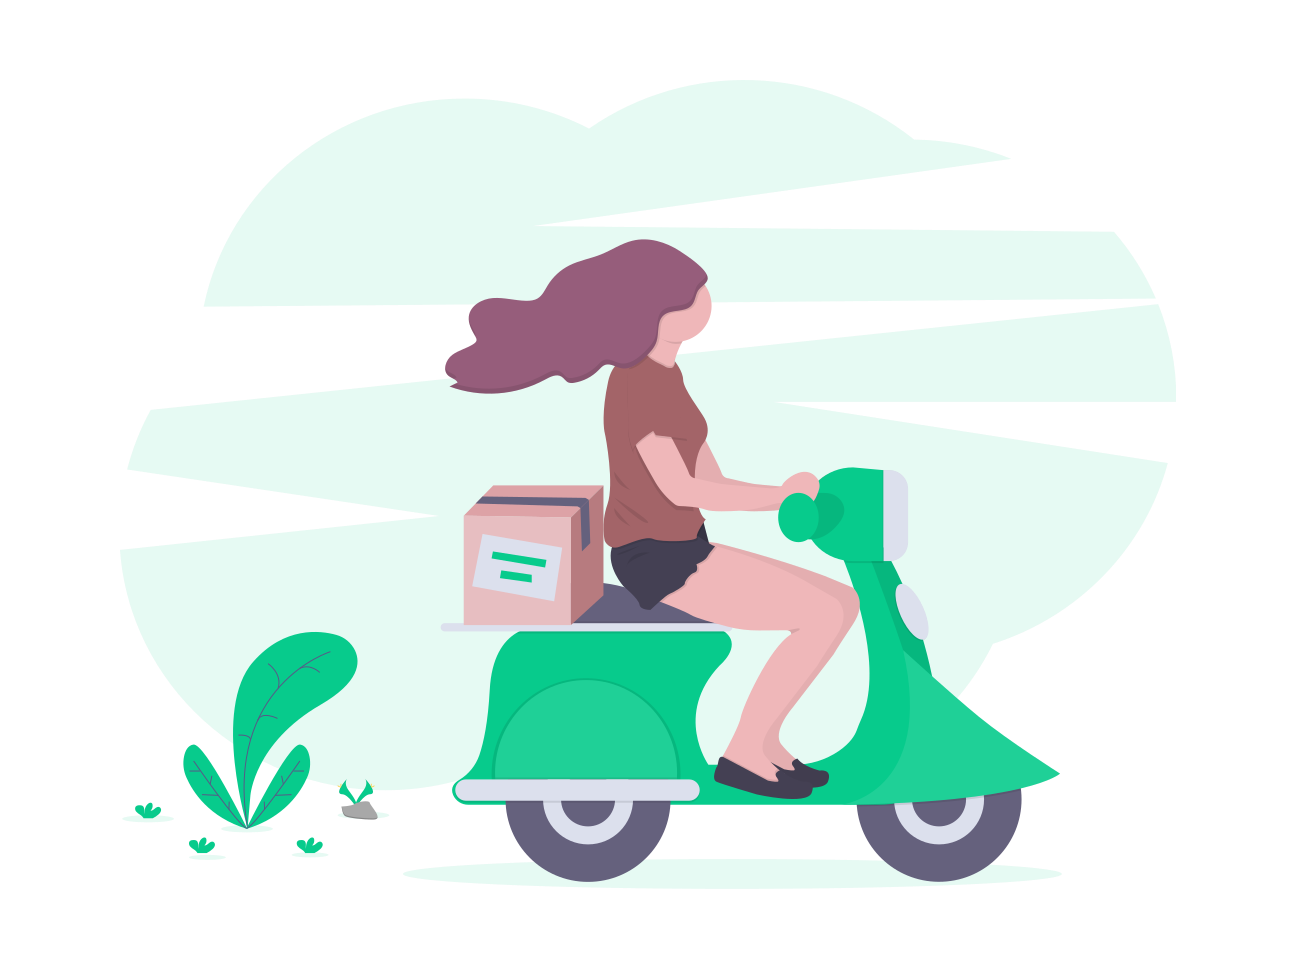
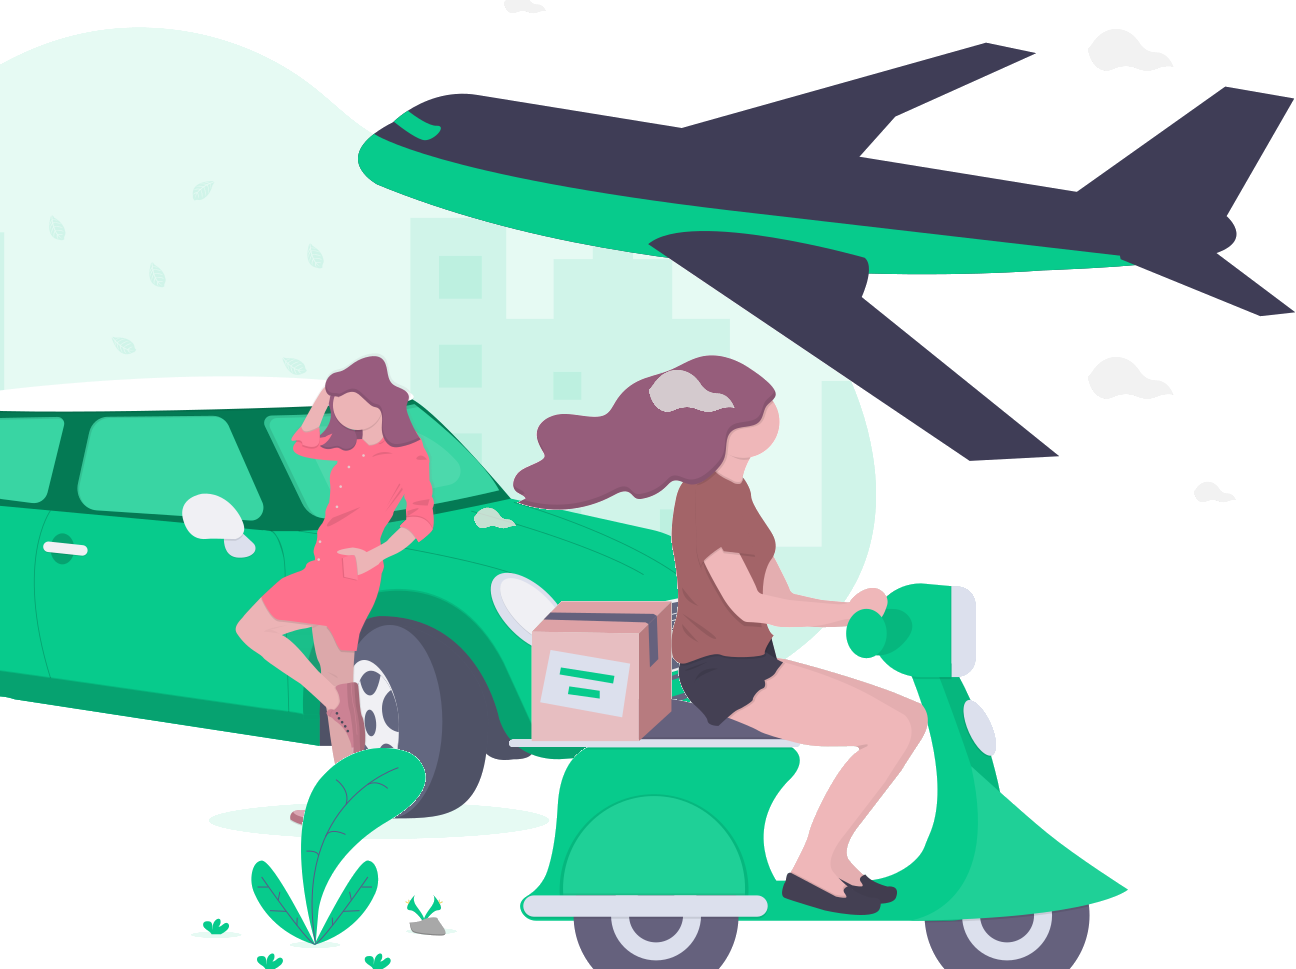
new changes added

diff --git a/lib/customWidgets/ModeSelectionWidget.dart b/lib/customWidgets/ModeSelectionWidget.dart
@@ -40,7 +40,6 @@ class ModeSelectionWidget extends StatelessWidget {
             children: [
               Container(
                 height: blockHeight * 65,
-
                 // color: Colors.orange,
                 alignment: Alignment.center,
                 child: Image.asset(
@@ -57,18 +56,20 @@ class ModeSelectionWidget extends StatelessWidget {
                   margin: EdgeInsets.symmetric(
                     horizontal: blockWidth * 5,
                   ),
-                  height: blockHeight * 10,
+                  height: blockHeight * 15,
                   // color: Colors.green,
                   alignment: Alignment.center,
                   child: Container(
-                    height: blockHeight * 5,
+                    height: blockHeight * 10,
                     // color: Colors.yellow,
                     alignment: Alignment.center,
                     child: AutoSizeText(
                       bodyText,
+                      textAlign: TextAlign.center,
                       style: TextStyle(
                         fontSize: 28,
                         fontWeight: FontWeight.bold,
+                        color: Colors.black87,
                       ),
                       minFontSize: 18,
                     ),

diff --git a/lib/ui/HomePage.dart b/lib/ui/HomePage.dart
@@ -28,7 +28,7 @@ class _HomePageState extends State<HomePage> {
     Container(
       child: ModeSelectionWidget(
         assetName: "assets/images/travel.png",
-        bodyText: "Earn money while travelling",
+        bodyText: "Make money anywhere you go",
         buttonText: "post itenary",
         pageNum: 0,
       ),
@@ -36,7 +36,7 @@ class _HomePageState extends State<HomePage> {
     Container(
       child: ModeSelectionWidget(
         assetName: "assets/images/sendPackage.png",
-        bodyText: "Send your package with ease",
+        bodyText: "Provide package details and find  a postman",
         buttonText: "send package",
         pageNum: 1,
         // methodInButton: () {
@@ -46,8 +46,8 @@ class _HomePageState extends State<HomePage> {
     ),
     Container(
       child: ModeSelectionWidget(
-        assetName: "assets/images/errand.png",
-        bodyText: "Get a postman",
+        assetName: "assets/images/errand2.png",
+        bodyText: "Pay postman to do your local chores fast",
         buttonText: "run your errand",
         pageNum: 2,
         // methodInButton: () {

diff --git a/lib/ui/WelcomeScreen.dart b/lib/ui/WelcomeScreen.dart
@@ -10,15 +10,15 @@ class WelcomeScreen extends StatelessWidget {
 
   List<Widget> welcomeScreenImages = [
     WelcomeScreenImage(
-      bodyText: "Track your packages easily",
+      bodyText: "Become a member today and start your hustle here",
       imageAssetName: "assets/images/img1.png",
     ),
     WelcomeScreenImage(
-      bodyText: "Earn money while travelling",
+      bodyText: "Become a member today and start your hustle here",
       imageAssetName: "assets/images/img2.png",
     ),
     WelcomeScreenImage(
-      bodyText: "Send packages to your loved ones easily",
+      bodyText: "Become a member today and start your hustle here",
       imageAssetName: "assets/images/img3.png",
     ),
   ];

diff --git a/lib/customWidgets/WelocmeScreenImage.dart b/lib/customWidgets/WelocmeScreenImage.dart
@@ -1,3 +1,4 @@
+import 'package:auto_size_text/auto_size_text.dart';
 import 'package:flutter/material.dart';
 import 'package:newpostman1/globals.dart';
 
@@ -42,12 +43,13 @@ class WelcomeScreenImage extends StatelessWidget {
               height: blockHeight * 8,
               // color: Colors.redAccent,
               alignment: Alignment.center,
-              child: Text(
+              child: AutoSizeText(
                 bodyText,
                 style: TextStyle(
                   fontSize: 25,
                   fontWeight: FontWeight.bold,
                 ),
+                minFontSize: 16,
                 textAlign: TextAlign.center,
               ),
             ),
